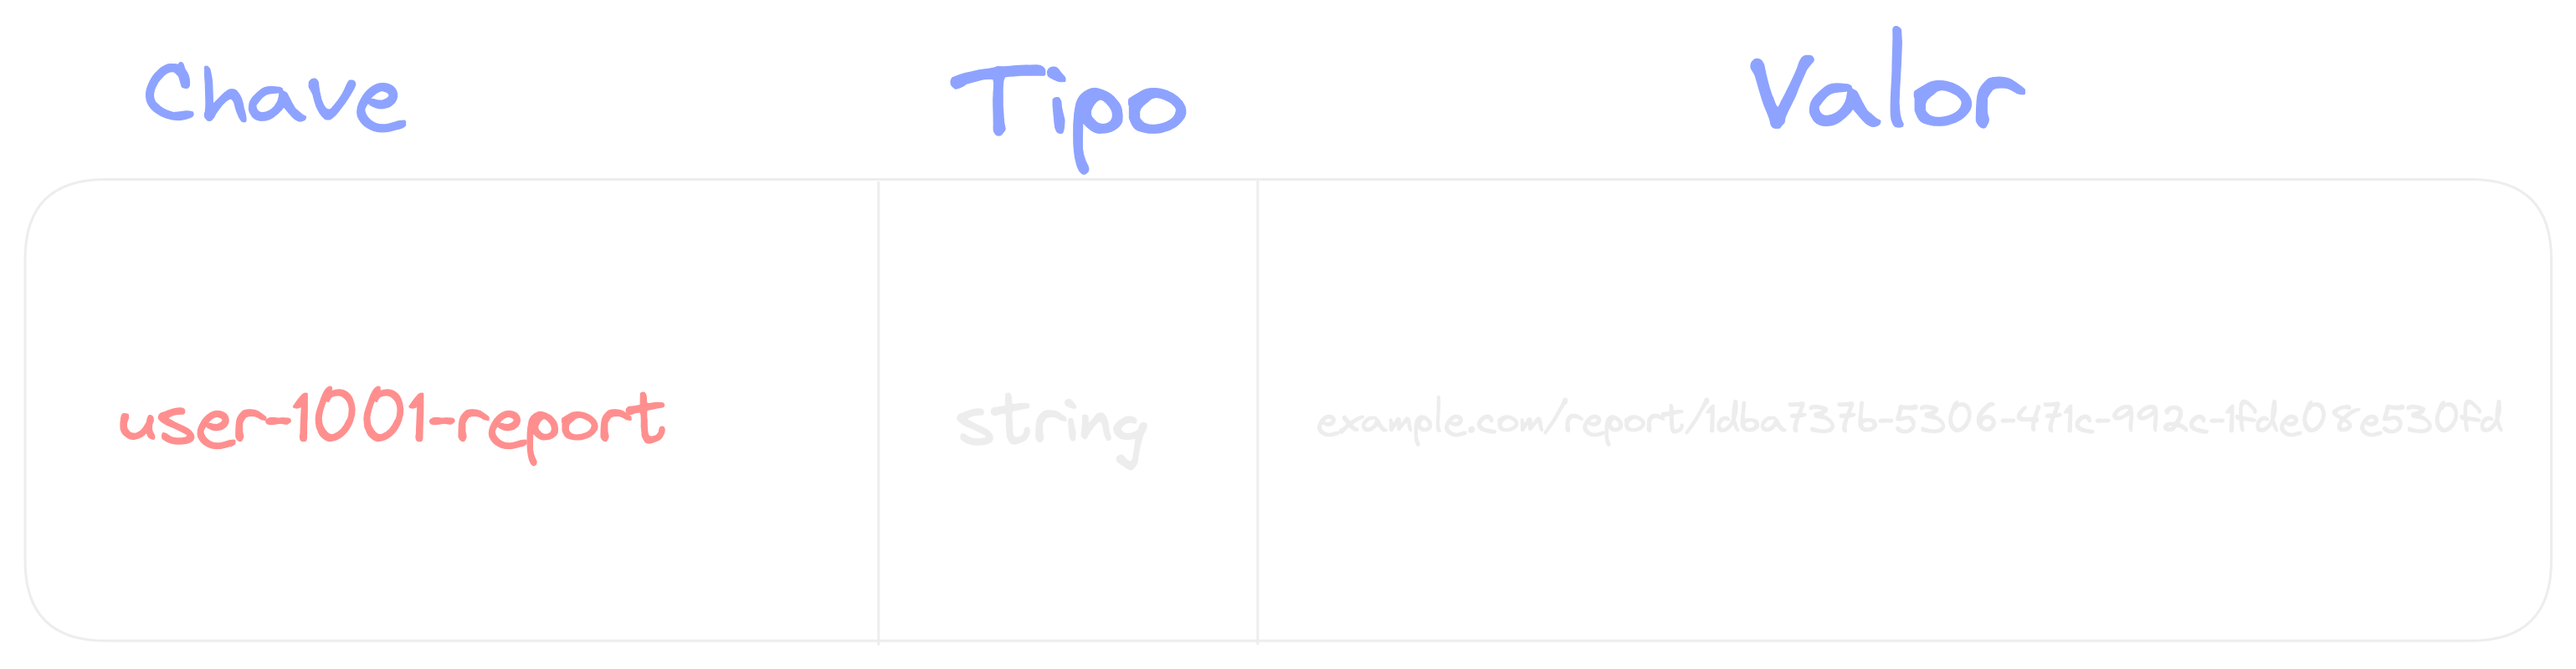
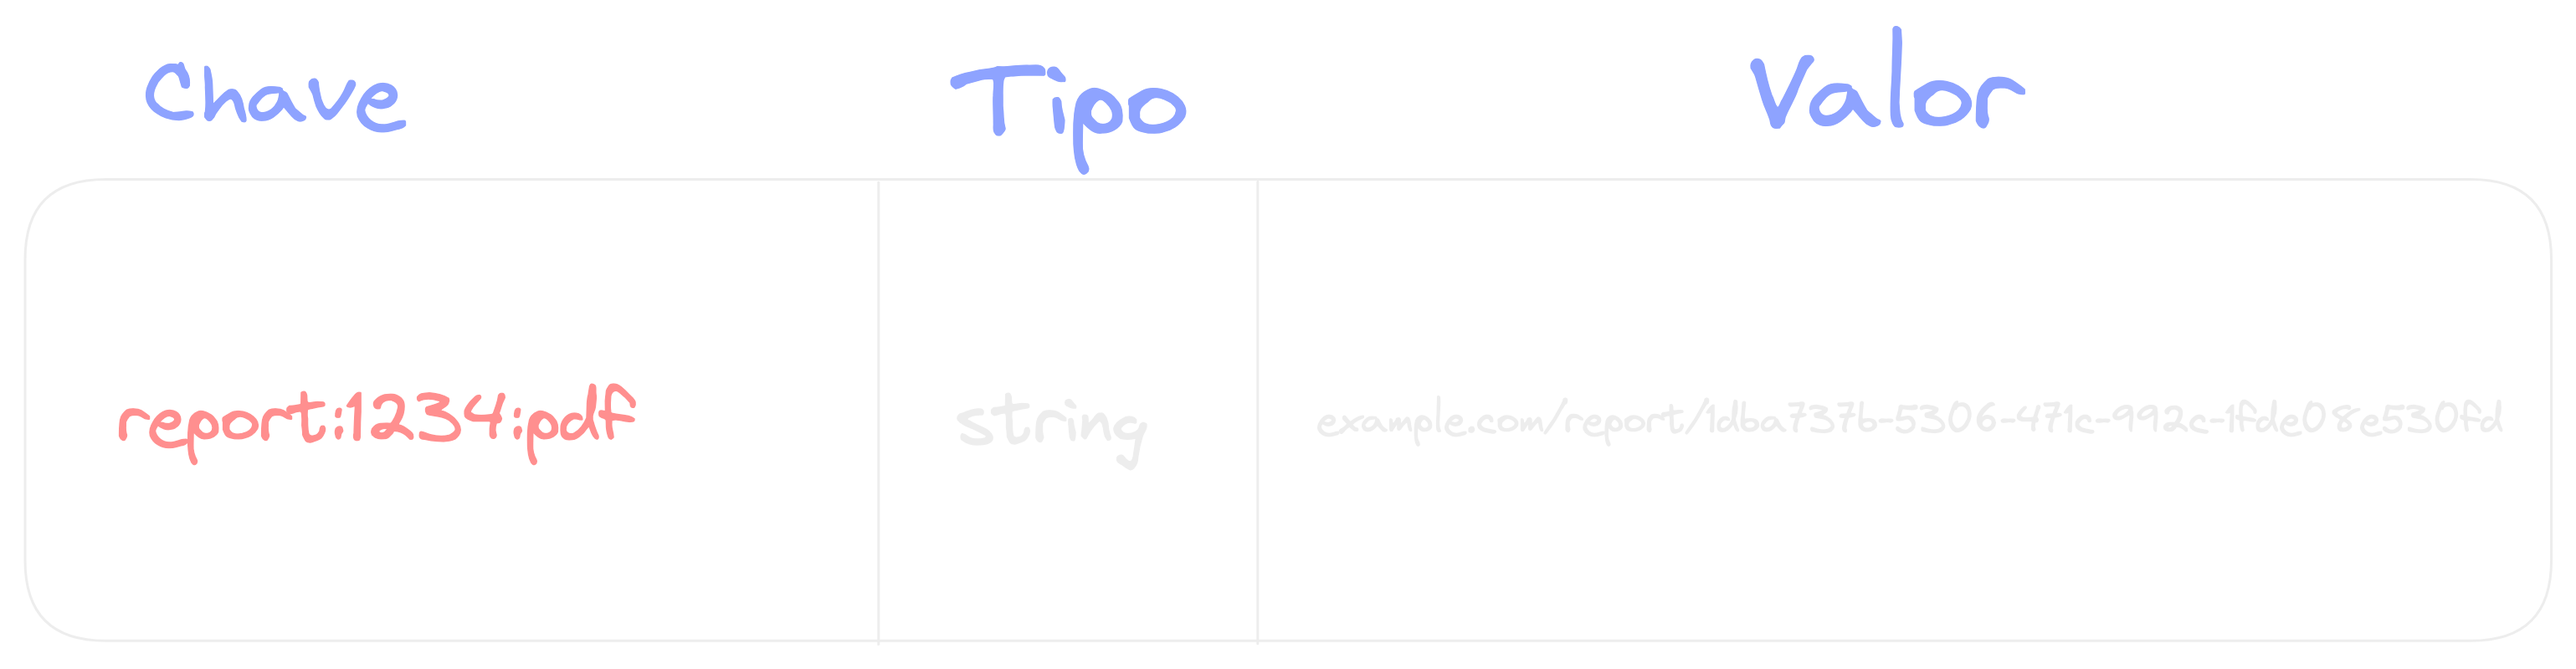
altera imagem de exemplo de key pattern / TTL

Changed region(s): [[0.0312, 0.5625, 0.2807, 0.6875]]

diff --git a/script.md b/script.md
@@ -68,6 +68,8 @@ RANDOMKEY
 
 ## TTL
 
+Fazer uma breve revisada sobre o assunto.
+
 ```
 TTL hello
 EXPIRE hello 10  --10s
